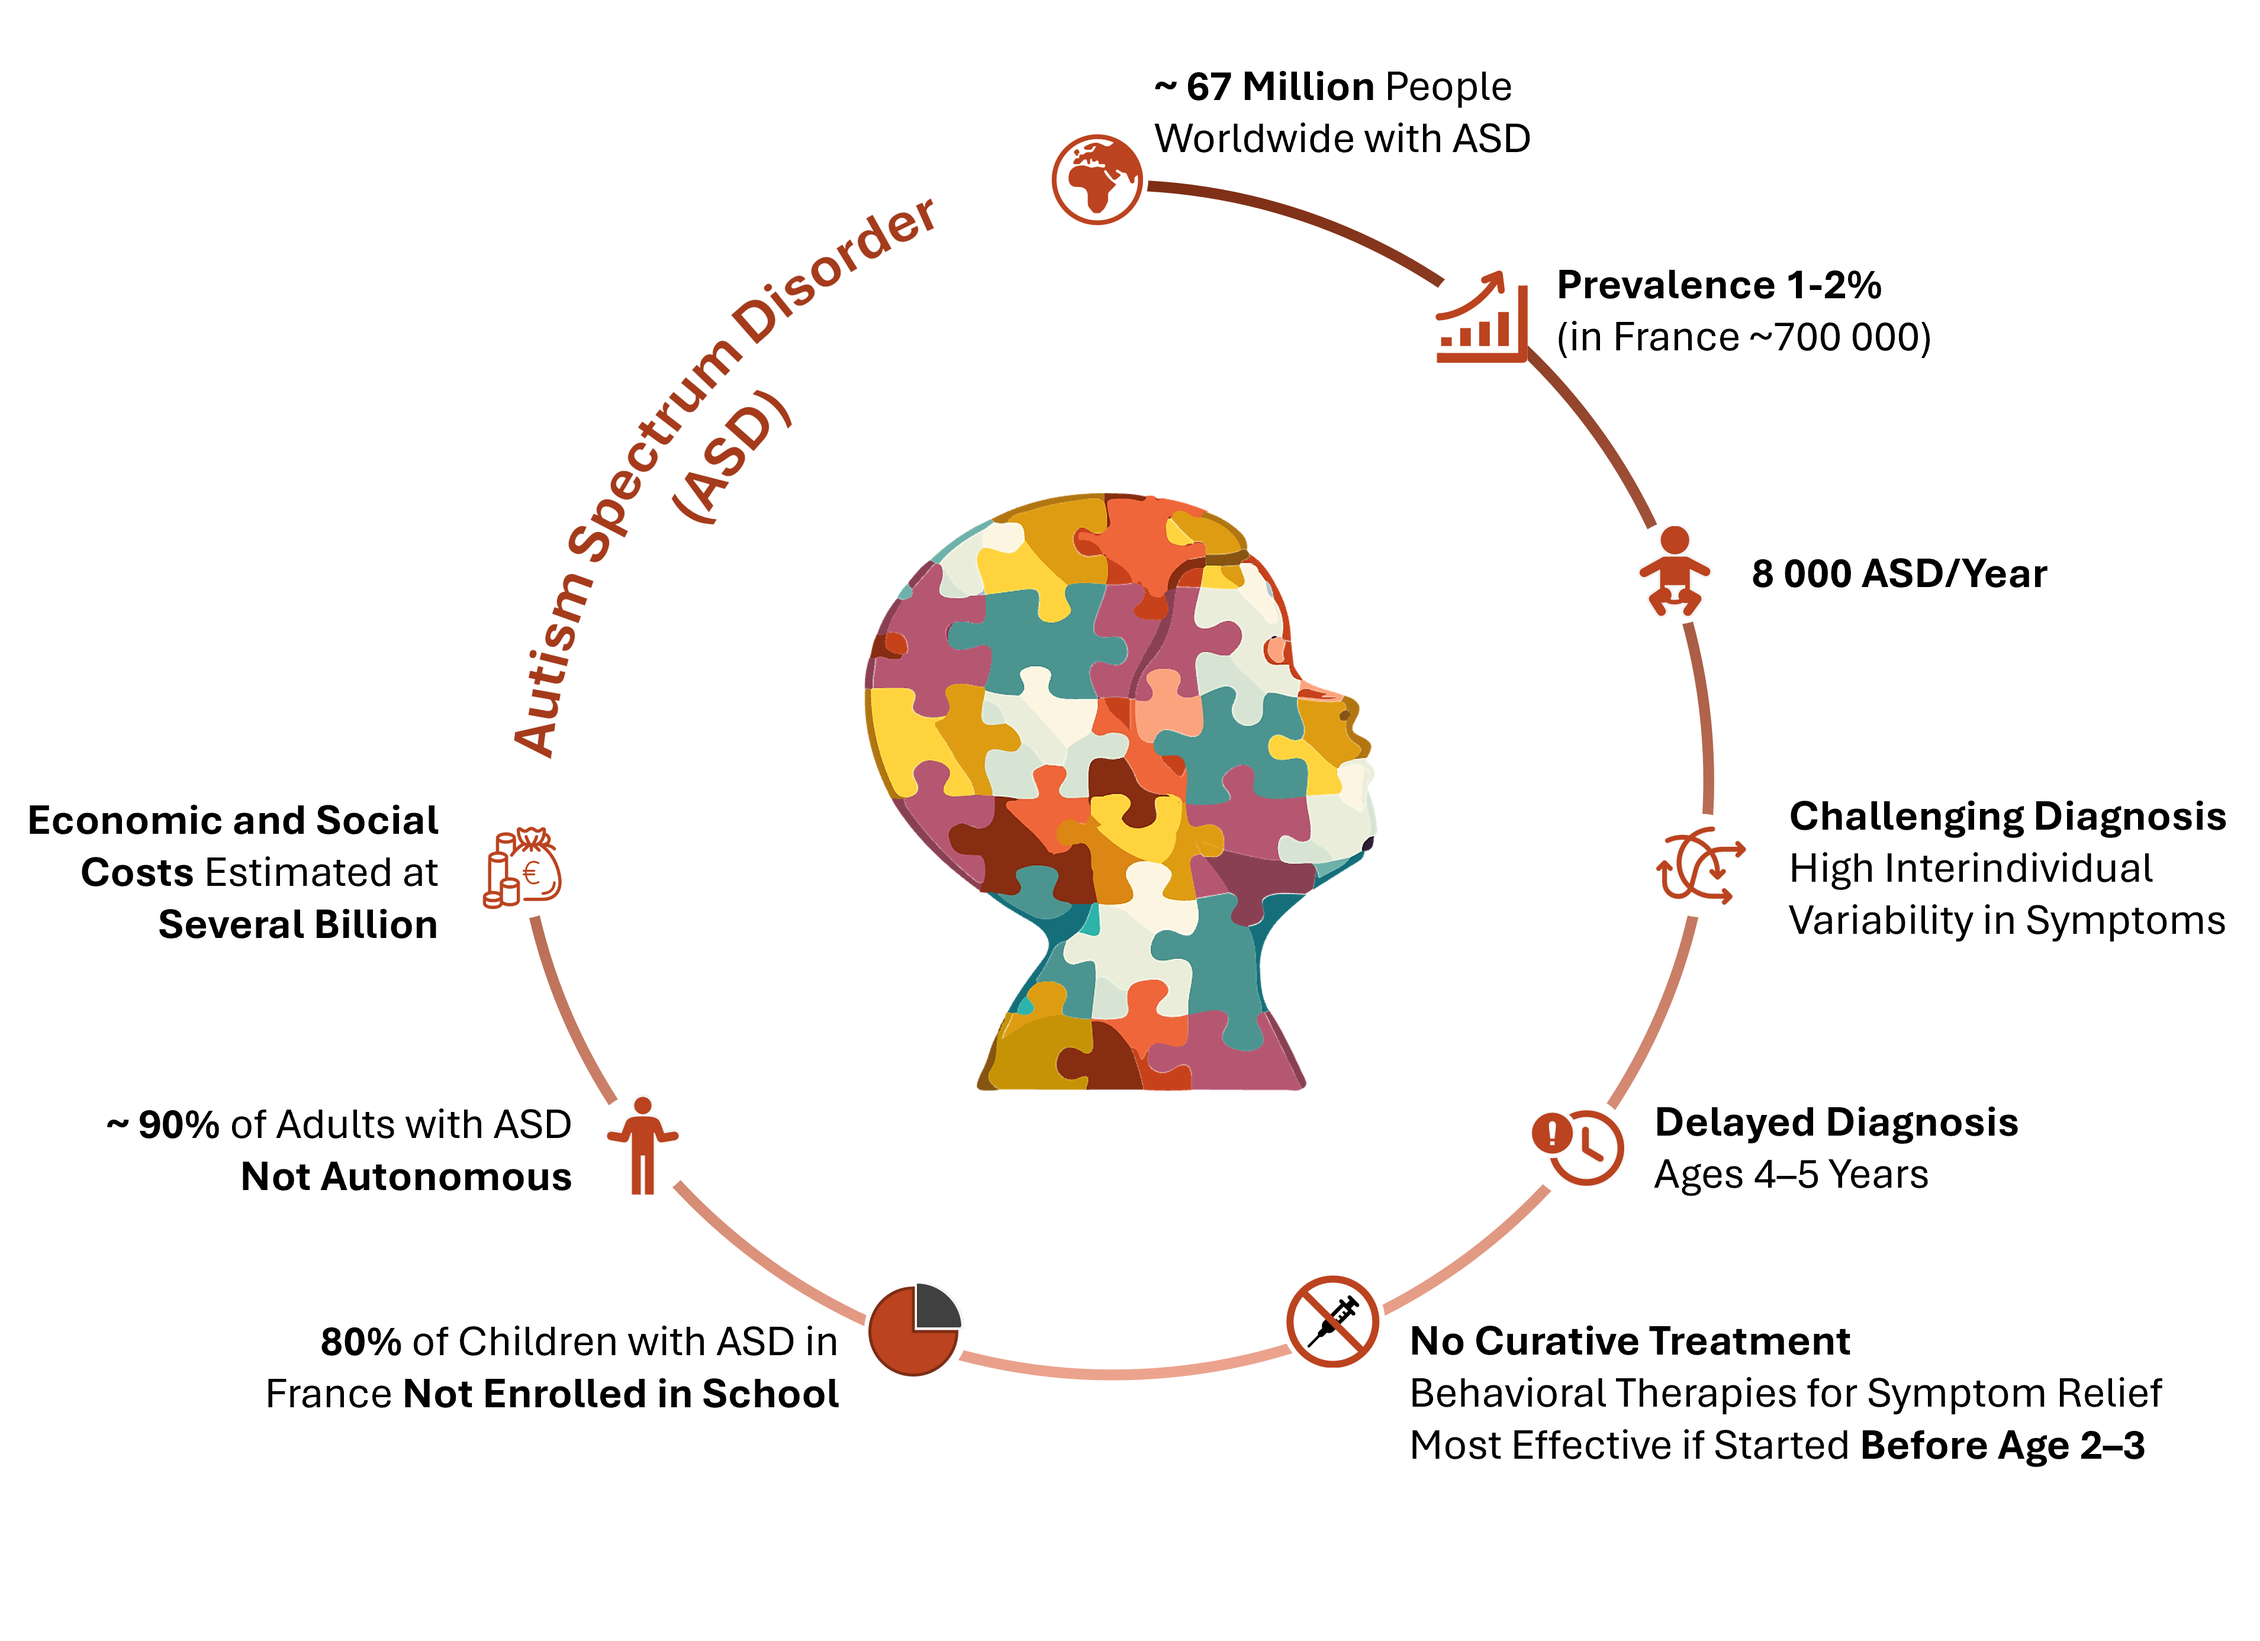
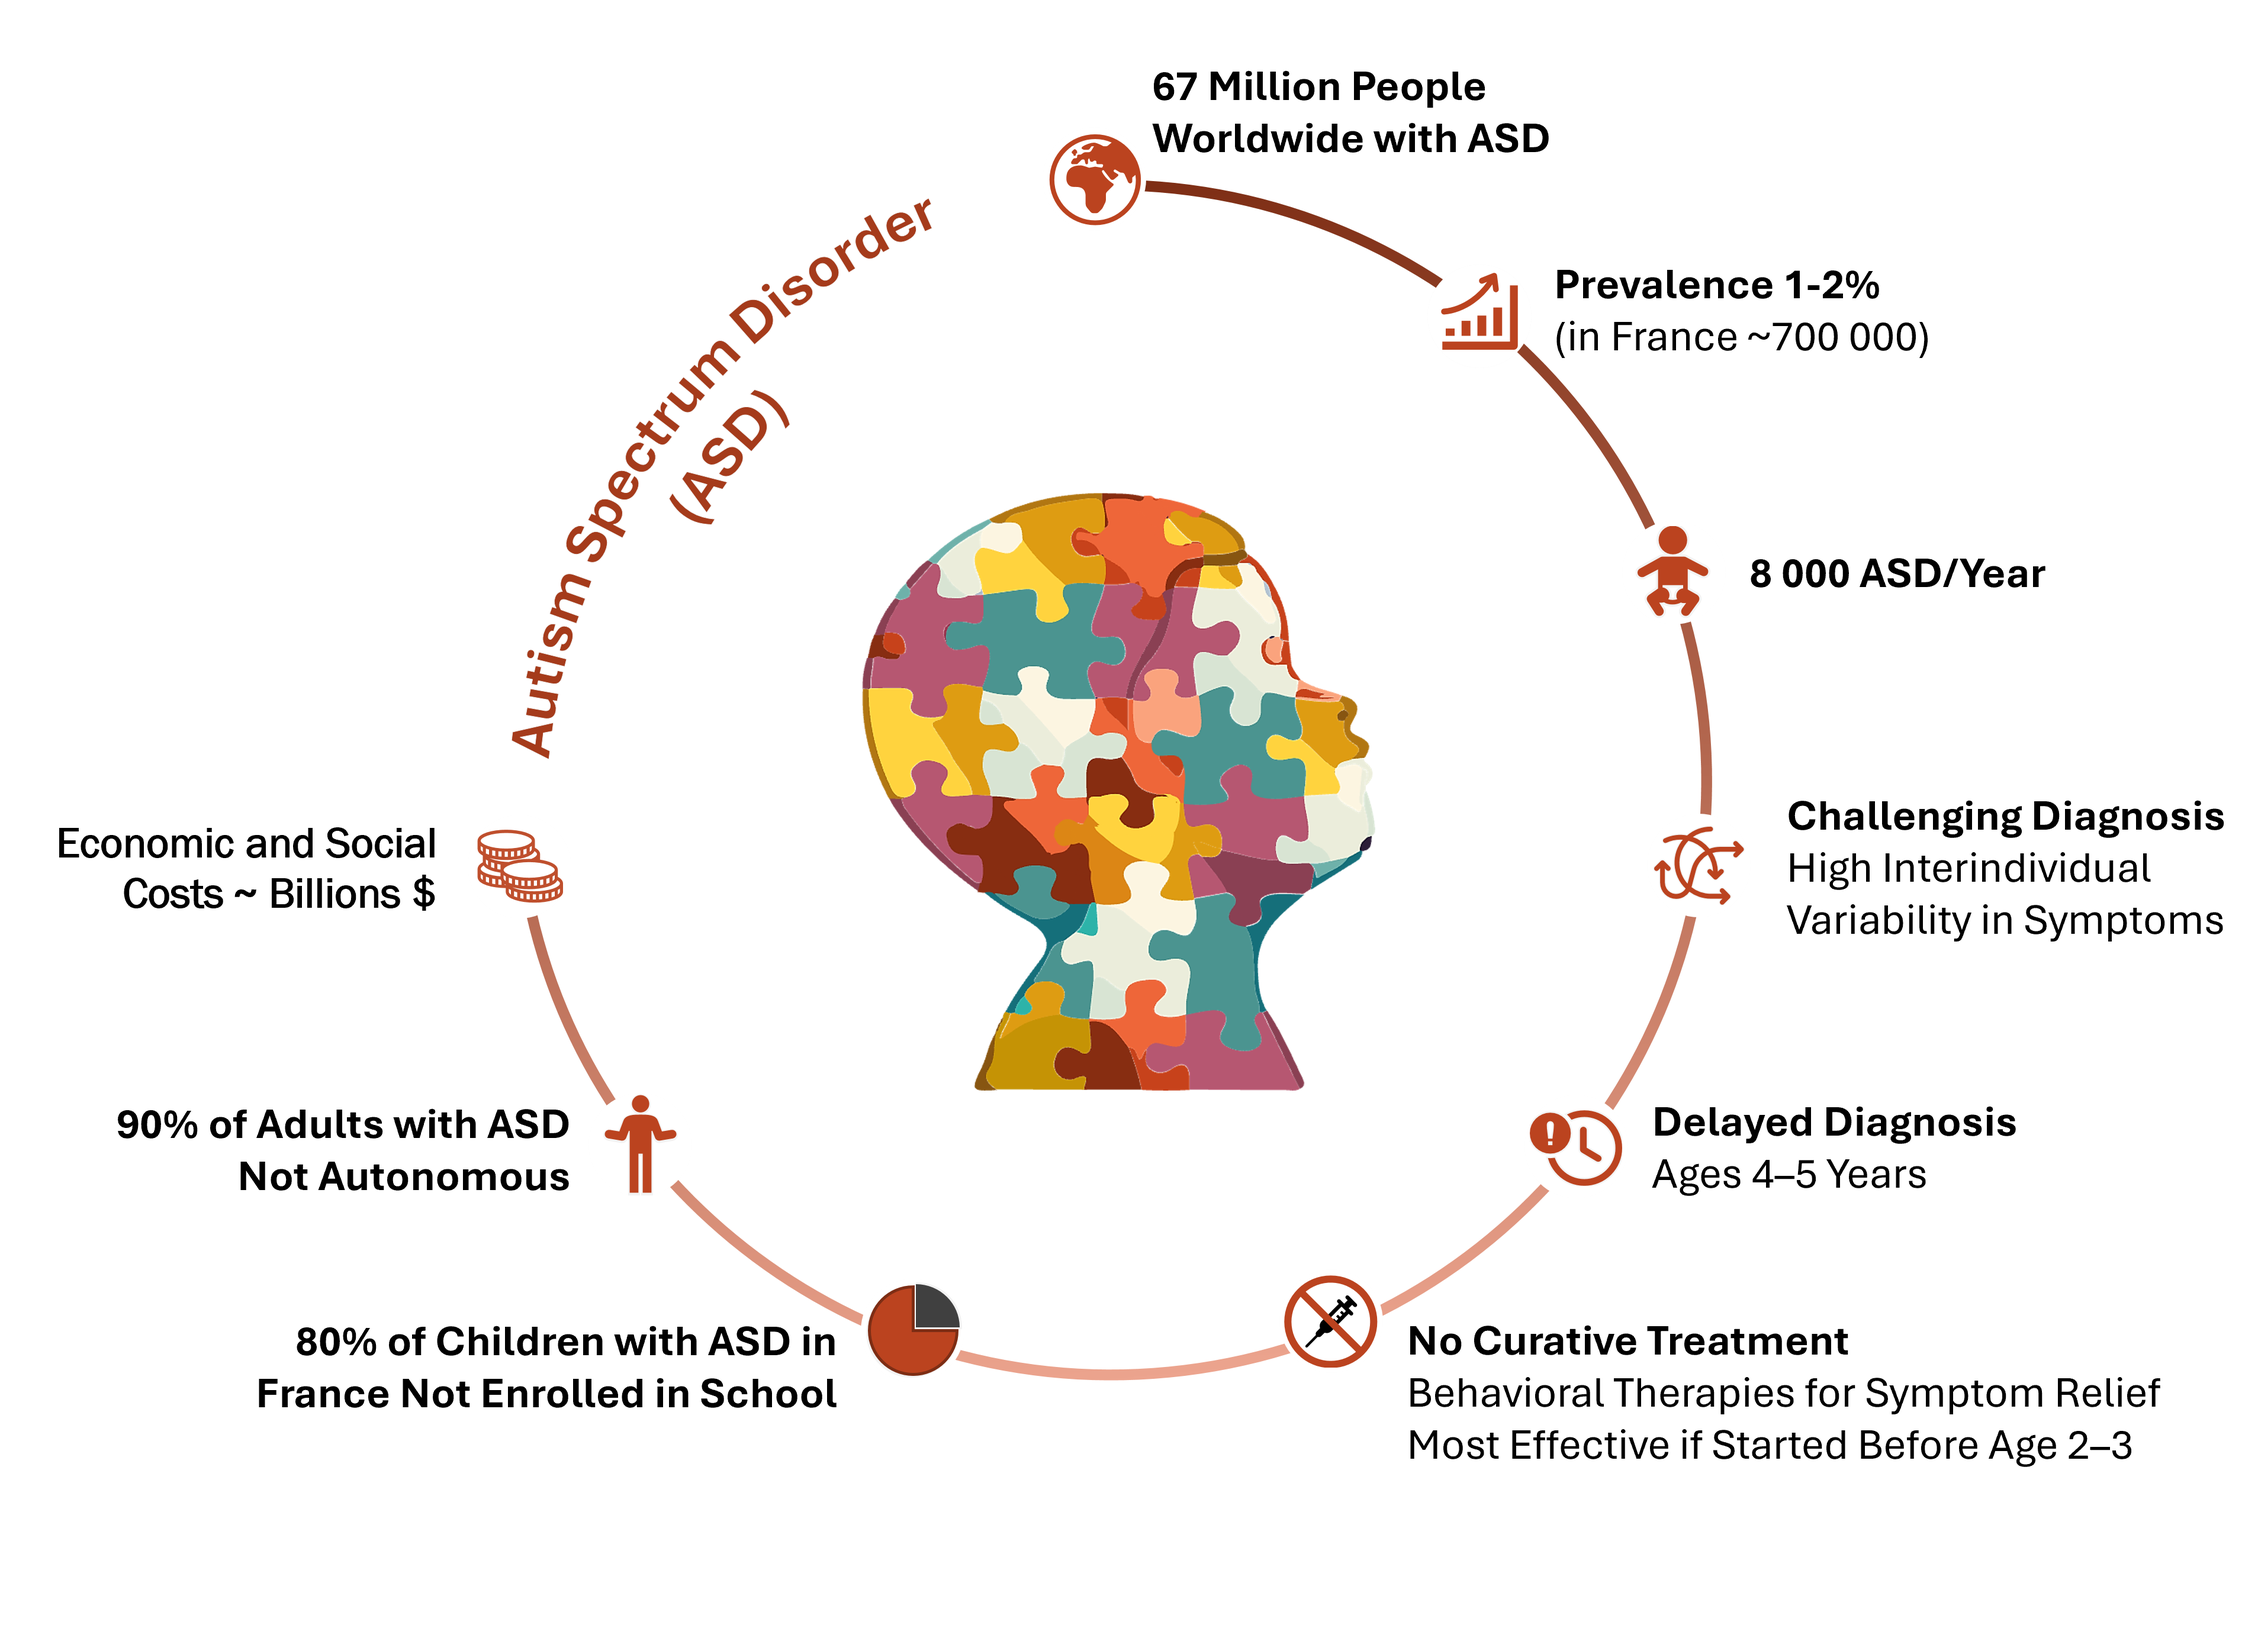
Modify Pelargos-why image.

diff --git a/content/project/pelargos/index.md b/content/project/pelargos/index.md
@@ -155,7 +155,7 @@ publication:
       <div class="title">Challenge</div>
     </div>
     <div class="description">
-        ASD, characterized by persistent deficits in communication and social interactions, along with restricted and repetitive behaviors, affects approximately 67 million individuals worldwide. The global prevalence of ASD is estimated to be around 2% and is steadily increasing. In the absence of an approved pharmacological treatment, symptom management relies on compensatory behavioral therapies, such as TEACCH and ABA, which are most effective when **started early, during the peak of brain plasticity, before 2–3 years of age. Unfortunately, the current average age of diagnosis for these complex and heterogeneous disorders remains between 4 and 5 years, preventing timely interventions at the most critical developmental period. Early identification of children with ASD thus remains a significant global public health challenge.
+        ASD, characterized by persistent deficits in communication and social interactions, along with restricted and repetitive behaviors, affects approximately 67 million individuals worldwide. The global prevalence of ASD is estimated to be around 2% and is steadily increasing. In the absence of an approved pharmacological treatment, symptom management relies on compensatory behavioral therapies, such as TEACCH and ABA, which are most effective when started early, during the peak of brain plasticity, before 2–3 years of age. Unfortunately, the current average age of diagnosis for these complex and heterogeneous disorders remains between 4 and 5 years, preventing timely interventions at the most critical developmental period. Early identification of children with ASD thus remains a significant global public health challenge.
         {{< figure src="pelargos-why.png" alt="Figure: ASD in numbers--Why Pelargos is needed?" >}}
     </div>
   </div>
